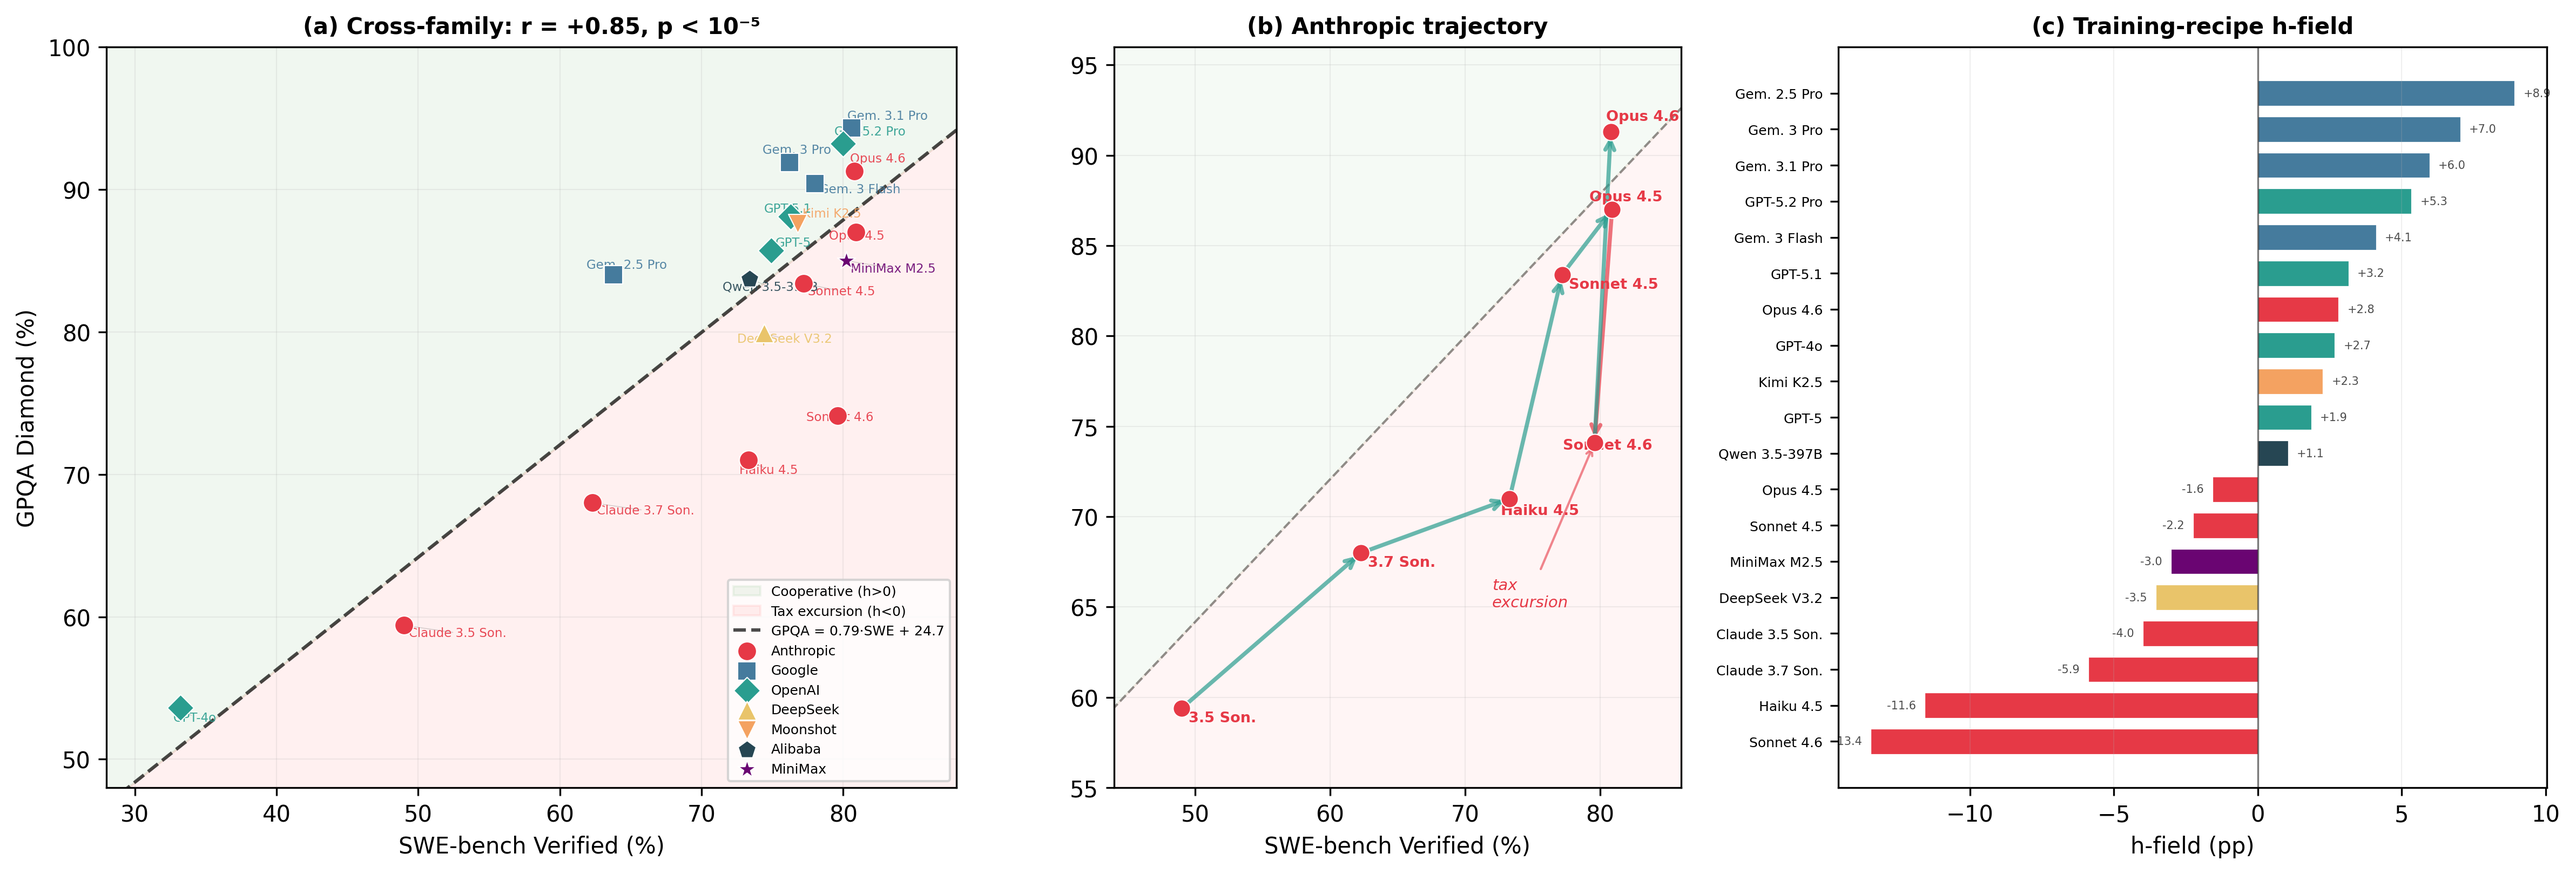
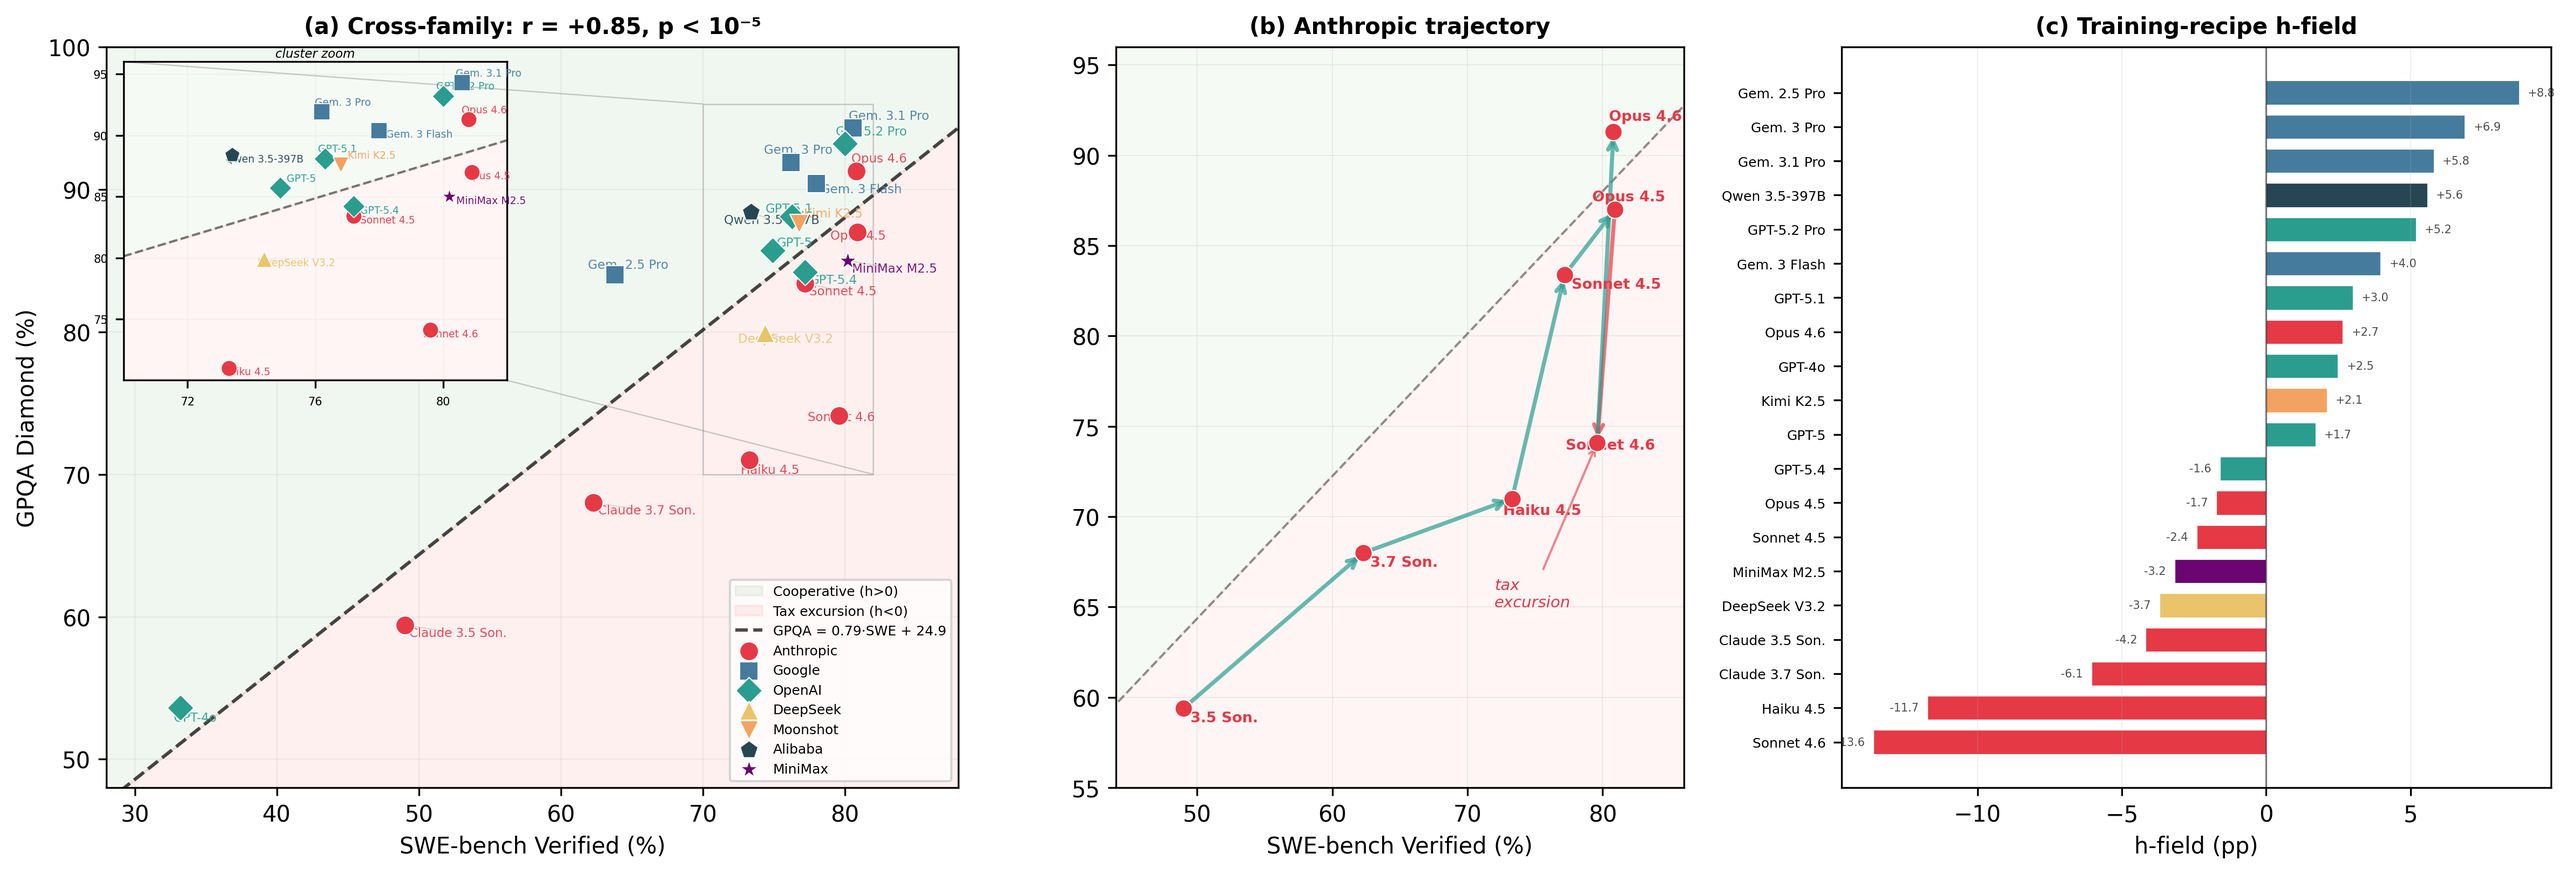
fix: fig9 frontier — add GPT-5.4, fix Qwen GPQA, add inset zoom panel
- Added missing GPT-5.4 (77.2, 84.2) to MODELS array (19→20 models)
- Fixed Qwen 3.5-397B GPQA from 83.7 to 88.4
- Added matplotlib inset_axes zoom panel in panel (a) showing crowded
  70-82% SWE × 70-96% GPQA cluster with readable per-model labels
- Phase shading (cooperative/tax) carried into inset
- Output now saves to both figures/ and repo root

diff --git a/scripts/gen_fig9_frontier.py b/scripts/gen_fig9_frontier.py
@@ -1,8 +1,8 @@
 """
 Generate fig9_frontier.png for paper - 3-panel frontier figure
-Panel (a): Cross-family scatter with regression, lab colors, phase shading
+Panel (a): Cross-family scatter with regression, lab colors, phase shading + inset zoom
 Panel (b): Anthropic within-family trajectory
-Panel (c): h-field bar chart for all 19 models
+Panel (c): h-field bar chart for all 20 models
 """
 import numpy as np
 from scipy import stats
@@ -27,9 +27,10 @@ MODELS = [
     ("GPT-5",            74.9, 85.7, "OpenAI"),
     ("GPT-5.1",          76.3, 88.1, "OpenAI"),
     ("GPT-5.2 Pro",      80.0, 93.2, "OpenAI"),
+    ("GPT-5.4",          77.2, 84.2, "OpenAI"),
     ("DeepSeek V3.2",    74.4, 79.9, "DeepSeek"),
     ("Kimi K2.5",        76.8, 87.6, "Moonshot"),
-    ("Qwen 3.5-397B",   73.4, 83.7, "Alibaba"),
+    ("Qwen 3.5-397B",   73.4, 88.4, "Alibaba"),
     ("MiniMax M2.5",     80.2, 85.0, "MiniMax"),
 ]
 
@@ -110,6 +111,7 @@ offsets["Kimi K2.5"] = (2, 3)
 offsets["Qwen 3.5-397B"] = (-12, -5)
 offsets["GPT-5"] = (2, 2)
 offsets["GPT-5.1"] = (-12, 2)
+offsets["GPT-5.4"] = (2, -5)
 
 for name, sv, gv, lab in MODELS:
     ox, oy = offsets.get(name, (2, 2))
@@ -124,6 +126,42 @@ ax.set_xlim(28, 88)
 ax.set_ylim(48, 100)
 ax.grid(True, alpha=0.2, linewidth=0.5)
 ax.legend(fontsize=6, loc='lower right', framealpha=0.8)
+
+# ── Inset zoom: crowded cluster region ──
+from mpl_toolkits.axes_grid1.inset_locator import inset_axes, mark_inset
+axins = ax.inset_axes([0.02, 0.55, 0.45, 0.43])  # [x0, y0, width, height] in axes coords
+zoom_swe = (70, 82)
+zoom_gpqa = (70, 96)
+
+# Regression line in inset
+x_z = np.linspace(zoom_swe[0], zoom_swe[1], 100)
+y_z = sl * x_z + ic
+axins.plot(x_z, y_z, 'k--', lw=1, alpha=0.5)
+axins.fill_between(x_z, y_z, 100, alpha=0.04, color='green')
+axins.fill_between(x_z, y_z, 60, alpha=0.04, color='red')
+
+# Plot cluster points in inset
+for i, (name, sv, gv, lab) in enumerate(MODELS):
+    if zoom_swe[0] <= sv <= zoom_swe[1] and zoom_gpqa[0] <= gv <= zoom_gpqa[1]:
+        axins.scatter(sv, gv, c=LAB_COLORS[lab], marker=LAB_MARKERS[lab],
+                      s=50, zorder=5, edgecolors='white', linewidths=0.4)
+        # Label every point in inset
+        ox, oy = offsets.get(name, (2, 2))
+        # Tighter offsets for inset
+        ox_in = 1.5 if ox > 0 else -1.5
+        oy_in = 1.5 if oy > 0 else -1.5
+        axins.annotate(name, (sv, gv), xytext=(ox_in*2, oy_in*2), textcoords='offset points',
+                       fontsize=4.5, color=LAB_COLORS[lab], alpha=0.95,
+                       arrowprops=dict(arrowstyle='-', color='gray', lw=0.2, alpha=0.3))
+
+axins.set_xlim(*zoom_swe)
+axins.set_ylim(*zoom_gpqa)
+axins.set_xticks([72, 76, 80])
+axins.set_yticks([75, 80, 85, 90, 95])
+axins.tick_params(labelsize=5)
+axins.grid(True, alpha=0.15, linewidth=0.3)
+axins.set_title('cluster zoom', fontsize=5.5, pad=2, fontstyle='italic')
+mark_inset(ax, axins, loc1=2, loc2=4, fc='none', ec='gray', lw=0.6, alpha=0.4)
 
 # ── Panel (b): Anthropic trajectory ──
 ax = axes[1]
@@ -196,7 +234,12 @@ for i, (h, name) in enumerate(zip(bar_h, bar_names)):
     ax.text(h + offset, i, f'{h:+.1f}', va='center', ha=side, fontsize=5, alpha=0.7)
 
 plt.tight_layout()
-plt.savefig('/sessions/nice-busy-lamport/cape-staging/fig9_frontier.png', dpi=300, bbox_inches='tight',
-            facecolor='white', edgecolor='none')
-print("Saved fig9_frontier.png")
+import os
+out_dir = os.path.dirname(os.path.dirname(os.path.abspath(__file__)))
+for dest in [os.path.join(out_dir, 'figures', 'fig9_frontier.png'),
+             os.path.join(out_dir, 'fig9_frontier.png')]:
+    os.makedirs(os.path.dirname(dest), exist_ok=True)
+    plt.savefig(dest, dpi=300, bbox_inches='tight', facecolor='white', edgecolor='none')
+    print(f"Saved {dest}")
+print("Done — fig9_frontier.png with inset zoom")
 plt.close()
